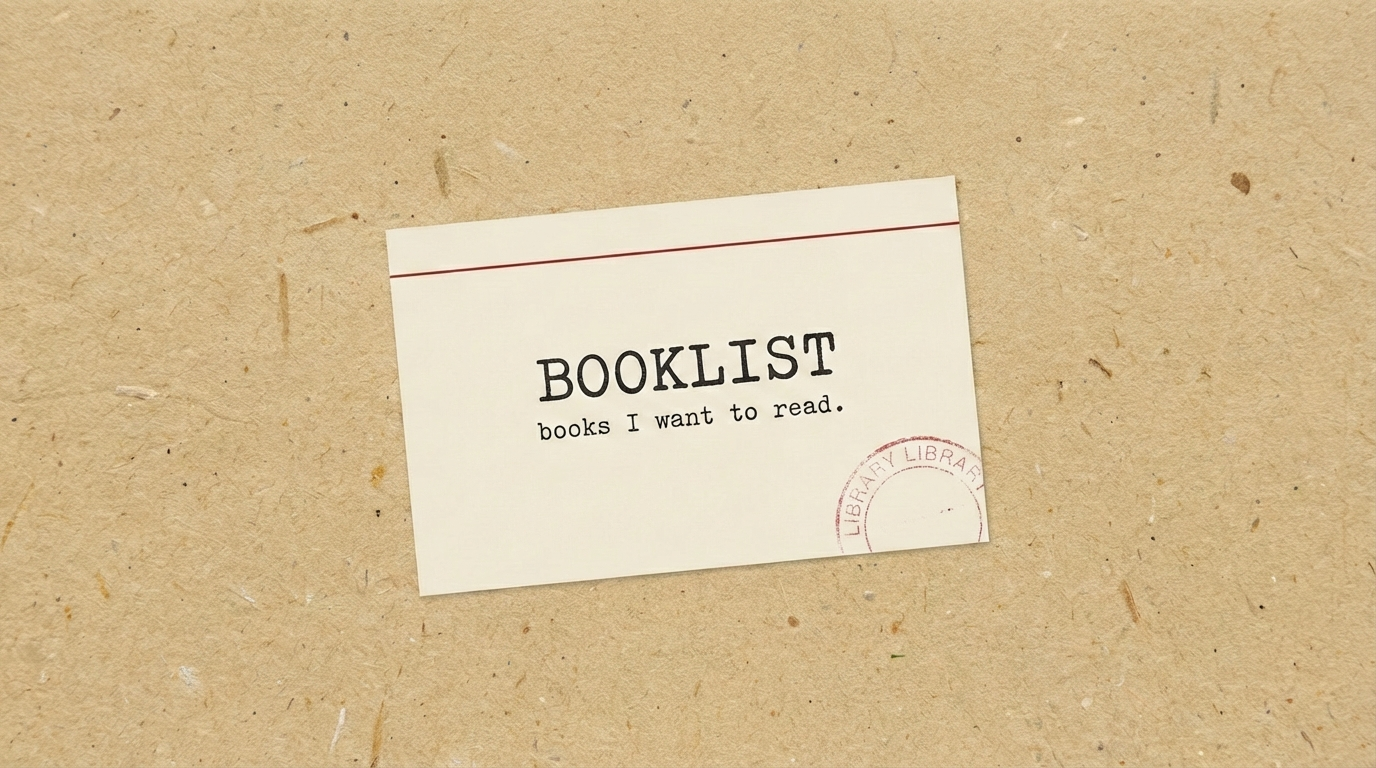
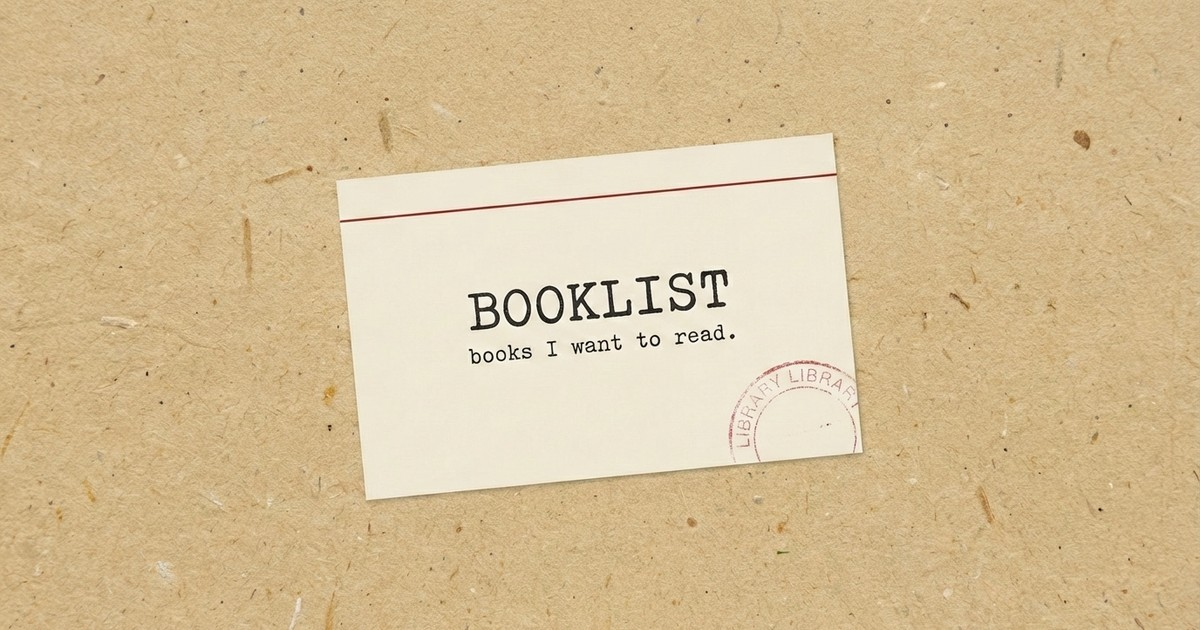
fix OG card: resize to 1200x630, absolute URLs, richer title and description

diff --git a/frontend/src/app/layout.tsx b/frontend/src/app/layout.tsx
@@ -15,30 +15,41 @@ const ibmPlexMono = IBM_Plex_Mono({
 });
 
 export const metadata: Metadata = {
-  title: "Booklist",
-  description: "Books I want to read.",
-  keywords: ["booklist", "reading list", "books", "personal library", "catalog"],
+  title: "Booklist | Personal Reading List & Book Catalog",
+  description:
+    "A personal catalog of books I want to read, currently reading, and loved. Search any book, file it to the shelf, browse the collection. Built like a library card catalog.",
+  keywords: [
+    "booklist",
+    "reading list",
+    "book catalog",
+    "personal library",
+    "books to read",
+    "book tracker",
+  ],
   authors: [{ name: "harikp" }],
   metadataBase: new URL("https://booklist.harikp.com"),
   openGraph: {
-    title: "Booklist",
-    description: "Books I want to read.",
+    title: "Booklist — A Personal Book Catalog",
+    description:
+      "Search any book, file it to the shelf, browse the collection. A reading list that looks like a library card catalog.",
+    url: "https://booklist.harikp.com",
     type: "website",
     siteName: "Booklist",
     images: [
       {
-        url: "/og-image.jpg",
+        url: "https://booklist.harikp.com/og-image.jpg",
         width: 1200,
         height: 630,
-        alt: "Booklist — a personal reading list catalog",
+        alt: "Booklist — A personal reading list catalog",
       },
     ],
   },
   twitter: {
     card: "summary_large_image",
-    title: "Booklist",
-    description: "Books I want to read.",
-    images: ["/og-image.jpg"],
+    title: "Booklist — A Personal Book Catalog",
+    description:
+      "Search any book, file it to the shelf, browse the collection. Built like a library card catalog.",
+    images: ["https://booklist.harikp.com/og-image.jpg"],
   },
 };
 
